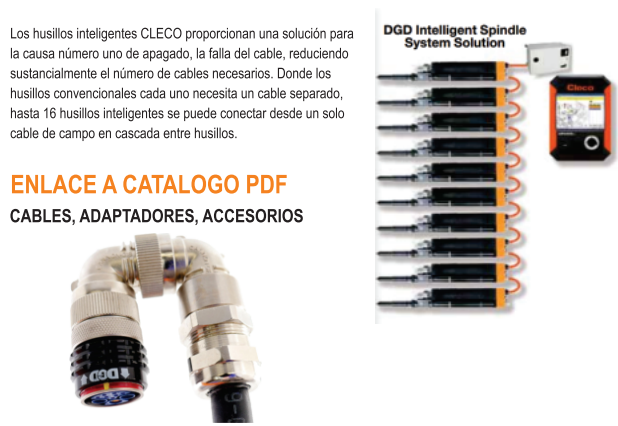
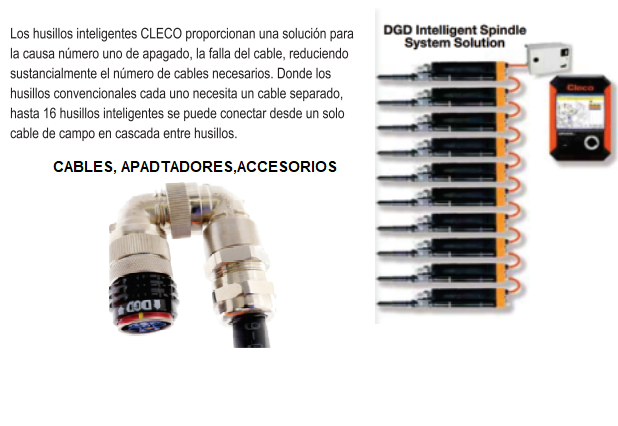
Cambios de mi resolución

Changed region(s): [[0.0, 0.3662, 0.5534, 1.0]]

diff --git a/styles/style.css b/styles/style.css
@@ -11,6 +11,10 @@
   font-style: normal;
   font-weight: normal;
 }
+.logoLimex {
+  width: 265px;
+  height: auto;
+}
 p {
   font-family: "Italics", sans-serif;
 }
@@ -104,16 +108,18 @@ h1 {
 .logo {
   width: 250px;
   height: 138px;
-  margin-left: 155px;
+  margin-left: 105px;
 }
 .descriptionProductCleco {
   color: #000 !important;
   padding-left: 110px;
   padding-right: 50px;
+  letter-spacing: -1px;
   position: relative;
   bottom: 60px;
   left: 0px;
   line-height: 25px;
+  font-size: 21px;
 }
 /* Estilos para el texto en inglés */
 .english-text1 {
@@ -130,7 +136,7 @@ h1 {
   width: 600px;
 }
 .imgProductCleco3 {
-  width: 509px;
+  width: 528px;
   height: auto;
   padding-top: 39px;
   margin-left: 210px;
@@ -139,10 +145,10 @@ h1 {
   margin-bottom: 50px;
 }
 .imgProductCleco7 {
-  margin-top: 75px;
+  margin-top: 30px;
   position: relative;
-  right: 116px;
-  width: 670px;
+  right: 87px;
+  width: 645px;
   height: auto;
 }
 
@@ -156,7 +162,7 @@ h1 {
 }
 .imgAtornilladorGrande {
   max-width: 1100px;
-  width: 1100px;
+  width: 1060px;
   height: auto;
 }
 .infoApexProducts {
@@ -165,8 +171,9 @@ h1 {
 .imgProductCleco6 {
   width: 70%;
   position: relative;
-  left: 10px;
+  left: 31px;
   padding-left: 53px;
+  bottom: 6px;
 }
 
 .imgApexProduct1 {
@@ -207,6 +214,9 @@ h1 {
 .containerClecoText,
 .containerTitleApex {
   height: 180px;
+  margin-right: 125px !important;
+  margin-left: 80px !important;
+  margin-bottom: 10px;
 }
 .containerTitleApex:hover .english-text {
   display: none;
@@ -236,11 +246,19 @@ h1 {
 .containerClecoText:hover .spanish-text1 {
   display: block;
 }
+.listaDescripcion{
+  left: 4% !important;
+  bottom: 90px;
+}
+
 .titleNeoTek {
   color: #e35205;
-  width: 243px;
   padding-left: 0px;
   margin-left: 100px;
+  letter-spacing: -1px;
+  font-weight: 700;
+  font-size: 34px;
+  width: 285px;
 }
 .clecoColumnProduct3 {
   width: 400px !important;
@@ -248,7 +266,8 @@ h1 {
 .productApex5 {
   padding-left: 20px;
   margin-left: 58px;
-  width: 555px;
+  width: 672px;
+  height: auto;
 }
 .apexSocketsWrenches {
   width: 1200px;
@@ -335,11 +354,11 @@ footer {
   padding-top: 20px;
   padding-left: 95px;
   margin-bottom: 1rem;
-  padding-right: 60px;
+  padding-right: 140px;
 }
 .containerResponsive .col-md-3 img,
 .containerResponsive .col-sm-6 img {
-  width: 250px; /* Cambia el ancho de las imágenes en dispositivos de escritorio */
+  width: 240px; /* Cambia el ancho de las imágenes en dispositivos de escritorio */
   height: auto; /* Mantén la proporción original */
 }
 img {
@@ -350,7 +369,7 @@ img {
 }
 
 .imgDaytonApex {
-  width: 75%;
+  width: 83%;
   margin-bottom: 30px;
 }
 .blur img {
@@ -396,8 +415,9 @@ img {
   width: 480px !important;
 }
 .containerListApexText > ul > li {
-  font-size: 1rem !important;
+  font-size: 18px !important;
   width: 360px;
+  line-height: normal;
 }
 .containerListApexText {
   padding-left: 85px;
@@ -411,13 +431,15 @@ img {
   margin-left: 99px;
   position: relative;
   top: 38px;
-  right: 38px;
+  right: 35px;
 }
 .containerClecoDescription {
   margin-left: 71px;
 }
 .neotekDescription {
   width: 450px !important;
+  position: relative;
+  left: 30px;
 }
 .containerProductCleco6 {
   width: 695px;
@@ -426,13 +448,15 @@ img {
   margin-top: 35px;
   margin-left: 0px;
   left: 29px;
-  font-size: 22px;
+  font-size: 25px;
   padding-right: 70px;
 }
 .apexText {
-  left: 30px;
-  font-family: "Arial Narrow", Arial, sans-serif !important;
+  left: 32px;
   padding-right: 50px;
+  line-height: normal;
+  font-size: 18px;
+  font-family: "Arial Narrow", Arial, sans-serif !important;
 }
 .containerRecoules {
   height: 115px;
@@ -444,33 +468,51 @@ img {
 .textTrustedQuality {
   padding-left: 24px;
   margin-bottom: 0px;
+  letter-spacing: -1px;
+  font-size: 28px;
 }
 .textKnowDurability {
   margin-bottom: 0px;
+  letter-spacing: -1px;
+  font-size: 28px;
 }
 .sizetorqueImage {
-  width: 500px;
+  width: 507px;
   height: auto;
-  margin-left: 121px;
+  margin-left: 97px;
 }
 .imgProductCleco5 {
-  width: 552px;
+  width: 549px;
   height: auto;
+  POSITION: RELATIVE;
+  left: 10px;
 }
+.logoApex{
+  margin-left: 100px !important;
+}
+
 .imgProductCleco4 {
-  width: 480px;
+  width: 532px;
   height: auto;
-  margin-left: 115px;
+  margin-left: 91px;
+}
+.titleHerramientasManuales{
+  margin-top: 45px  !important;
+  margin-bottom: 45px !important;
+  font-size: 31px;
+  letter-spacing: -1px;
 }
 .titleDescription1 {
   color: #000 !important;
-  padding-left: 77px;
+  padding-left: 98px;
+  padding-top: 0px;
 }
 .extra-space {
   margin-bottom: 7px; /* Ajusta este valor según sea necesario */
 }
 .liApex {
   font-family: "Arial Narrow", Arial, sans-serif !important;
+  font-weight: 500;
 }
 .imgUniversalJoints {
   margin-right: 230px;
@@ -487,11 +529,11 @@ img {
   height: auto;
 }
 .husillosText {
-  margin: 1.5rem;
-}
-.titleDescription {
-  margin-top: 24px !important;
-  margin-bottom: 48px;
+  position: relative;
+  left: 9rem;
+  font-size: 32px;
+  width: 1000px;
+  margin-bottom: 30px;
 }
 .columnDaytonApex {
   flex-direction: column;
@@ -516,9 +558,8 @@ img {
   height: auto;
 }
 .imgProductCleco8_1 {
-  width: 100%;
+  width: 660px !important;
   height: auto;
-  max-width: 100%;
 }
 .logoKistler {
   width: 255px;
@@ -579,6 +620,7 @@ img {
     left: 305px;
     top: 40px;
     font-size: 35px;
+    letter-spacing: -1px;
   }
   .textNeoTek {
     padding-right: 113px;
@@ -590,6 +632,7 @@ img {
   .titleDescription {
     font-size: 39px;
   }
+
   .logo {
     width: 380px;
     height: 138px;
@@ -599,8 +642,8 @@ img {
     width: 1300px;
   }
   .containerTitleApex {
-    margin-left: 265px;
-    margin-right: 230px;
+    margin-left: 80px;
+    margin-right: 204px;
   }
   .columnDaytonApex {
     margin-bottom: 60px;
@@ -918,7 +961,7 @@ img {
     width: 73px;
     height: 24px;
     font-size: 6px;
-}
+  }
 
   .imgAtornilladorGrande {
     width: 365px;
@@ -1145,17 +1188,16 @@ img {
   .imgProductNorbar {
     width: 100% !important;
   }
-  .logoKistler{
+  .logoKistler {
     margin-left: 0px;
     position: relative;
     right: 200px;
   }
-  .borderLine{
+  .borderLine {
     width: 365px;
   }
-  .kistlerInnovation{
+  .kistlerInnovation {
     width: 345px;
-
   }
 }
 .titleRecoules {

diff --git a/index.html b/index.html
@@ -28,6 +28,7 @@
             <img
               src="images/logo-limex-removebg-preview.png"
               alt="logo limex"
+              class="logoLimex"
             />
           </a>
           <button
@@ -100,7 +101,7 @@
         <div class="logo-container titulo1 mt-4" id="cleco-section">
           <img src="images/cleco-logo.png" alt="logo cleco" class="logo" />
         </div>
-        <h3 class="text-center titleDescription husillosText">
+        <h3 class=" titleDescription husillosText">
           HUSILLOS INTELIGENTES PARA ESTACIONES DE ATORNILLADO
         </h3>
         <div class="container-fluid">
@@ -329,10 +330,7 @@
           </div>
 
           <div class="row">
-            <div class="d-flex justify-content-center align-items-center">
-              <div class="borderLine"></div>
-            </div>
-            <h3 class="text-center titleDescription">
+            <h3 class="text-center titleDescription titleHerramientasManuales">
               HERRAMIENTAS MANUALES INALAMBRICAS Y CON CABLE
             </h3>
             <div class="d-flex flex-wrap">
@@ -469,7 +467,7 @@
               <div class="containerFrame">
                 <iframe
                   class="iframeYT"
-                  width="1100"
+                  width="1030"
                   height="500"
                   src="https://www.youtube.com/embed/GkMR0HIWAdw?si=h-VZAnjE93Ch4Vjx"
                   title="YouTube video player"
@@ -543,11 +541,13 @@
               <div
                 class="containerApex containerClecoText containerListApexText"
               >
-                <ul class="english-text mb-3">
+                <ul class="english-text listaDescripcion mb-3">
                   <li>-Automotive</li>
                   <li>-Aerospace</li>
                   <li>-Appliances, Electronics & Industrial Assembly</li>
                   <li>-Agriculture & Off-Road Machinery</li>
+                  <br>
+                  
                   <li class="screwDriver liApex">-Screwdriver Bits</li>
                   <li class="liApex">-Bit Holders</li>
                   <li class="liApex">-Sockets & Universal Wrenches</li>
@@ -557,13 +557,15 @@
                   <li class="liApex">-u-GUARD™ Anti-Mar Protective Covers</li>
                   <li class="liApex">-Universal Joints</li>
                 </ul>
-                <ul class="spanish-text mb-3">
+
+                <ul class="spanish-text  listaDescripcion mb-3">
                   <li>-Automotriz</li>
                   <li>-Aeroespacial</li>
                   <li>
                     -Electrodomésticos, Electrónica y Ensamblaje Industrial
                   </li>
                   <li>-Agricultura y Maquinaria Todo Terreno</li>
+                  <br>
                   <li class="screwDriver liApex">-Puntas de destornillador</li>
                   <li class="liApex">-Portapuntas</li>
                   <li class="liApex">-Llaves de vaso y llaves universales</li>
